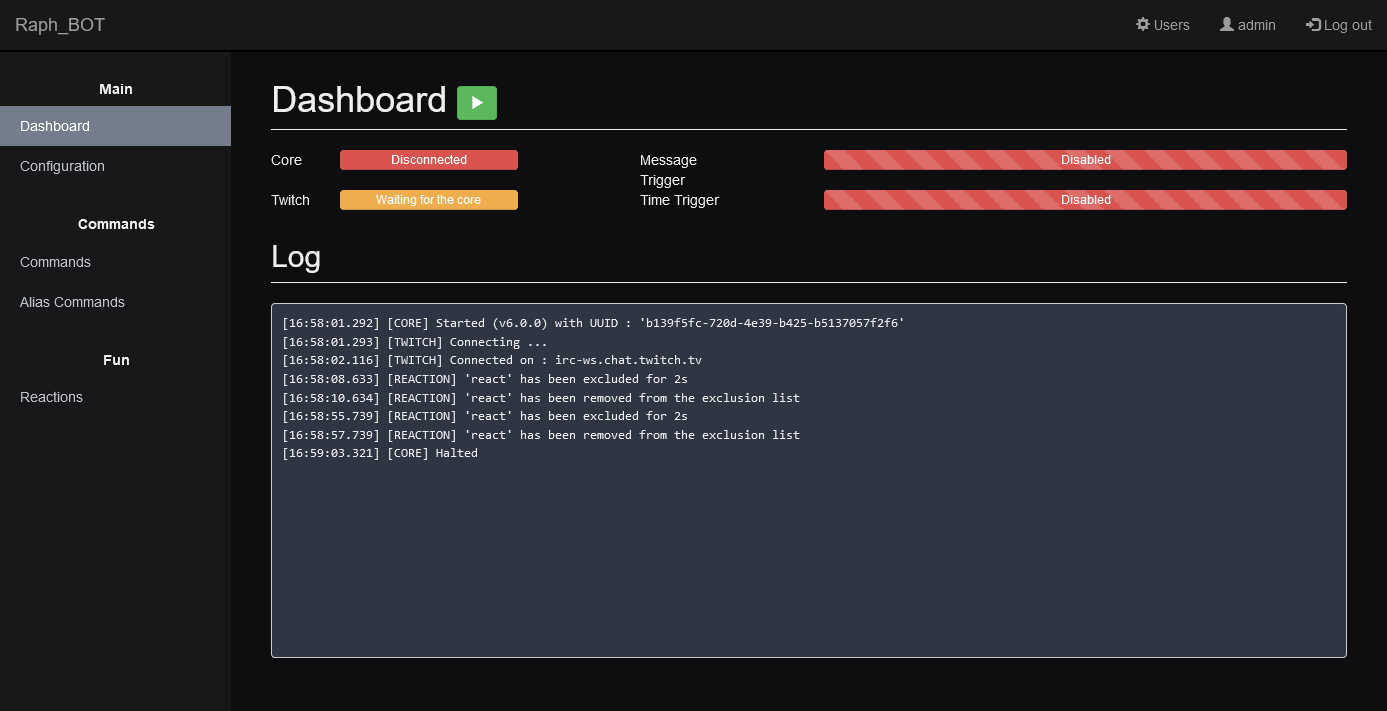
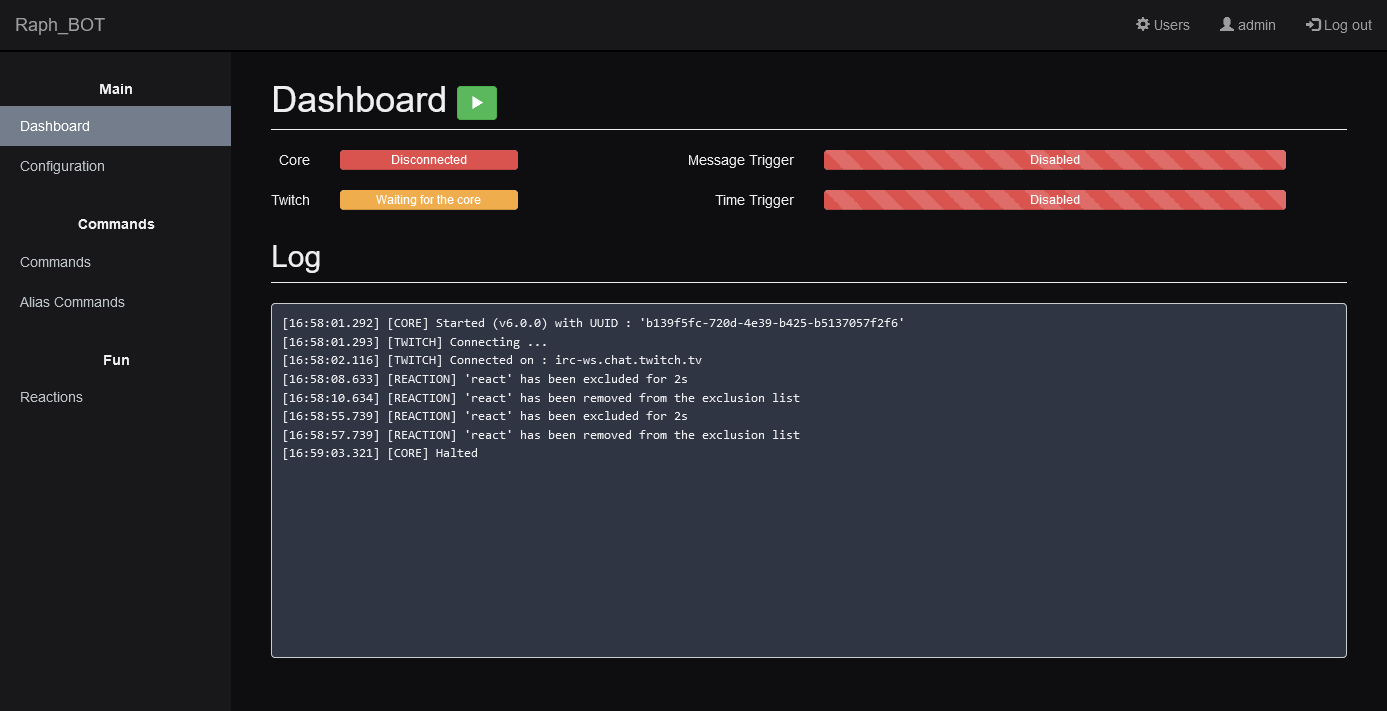
* layout

diff --git a/www/src/dashboard.css b/www/src/dashboard.css
@@ -130,3 +130,7 @@ label{
 textarea { 
   resize: vertical;
 }
+
+.align-right{
+  text-align: right;
+}

diff --git a/www/dashboard.php b/www/dashboard.php
@@ -33,7 +33,7 @@ $port = db_query($db, "SELECT `port` FROM `ports` WHERE `UUID` = '$UUID'")['port
         <div class="col-sm-3">
           <!-- Core Connection -->
           <div class="row">
-            <div class="col-sm-3">Core</div>
+            <div class="col-sm-3 align-right">Core</div>
             <div class="col-sm-9">
               <div class="progress">
                 <div class="progress-bar progress-bar-danger" role="progressbar" style="width:100%" id="core-statut">
@@ -45,7 +45,7 @@ $port = db_query($db, "SELECT `port` FROM `ports` WHERE `UUID` = '$UUID'")['port
 
           <!-- Twitch Connection -->
           <div class="row">
-            <div class="col-sm-3">Twitch</div>
+            <div class="col-sm-3 align-right">Twitch</div>
             <div class="col-sm-9">
               <div class="progress">
                 <div class="progress-bar progress-bar-warning" role="progressbar" style="width:100%" id="twitch-statut">
@@ -60,28 +60,32 @@ $port = db_query($db, "SELECT `port` FROM `ports` WHERE `UUID` = '$UUID'")['port
         <div class="col-sm-8 col-sm-offset-1">
           <!-- Auto CMD msg progress -->
           <div class="row">
-            <div class="col-sm-2">Message Trigger</div>
-            <div class="col-sm-1" id="auto-cmd-msg-counter">0</span></div>
-            <div class="col-sm-9">
+            <div class="col-sm-3 align-right">Message Trigger</div>
+            
+            <div class="col-sm-8">
               <div class="progress">
                 <div class="progress-bar progress-bar-info" role="progressbar" style="width:0%" id="auto-cmd-msg-bar">
                   <span id="auto-cmd-msg-text"></span>
                 </div>
               </div> 
             </div>
+
+            <div class="col-sm-1" id="auto-cmd-msg-counter">0</span></div>
           </div>
       
           <!-- Auto CMD time progress -->
           <div class="row">
-            <div class="col-sm-2">Time Trigger</div>
-            <div class="col-sm-1" id="auto-cmd-time-counter">0</span></div>
-            <div class="col-sm-9">
+            <div class="col-sm-3 align-right">Time Trigger</div>
+            
+            <div class="col-sm-8">
               <div class="progress">
                 <div class="progress-bar progress-bar-info" role="progressbar" style="width:0%" id="auto-cmd-time-bar">
                   <span id="auto-cmd-time-text"></span>
                 </div>
               </div> 
             </div>
+
+            <div class="col-sm-1" id="auto-cmd-time-counter">0</span></div>
           </div>
 
 
